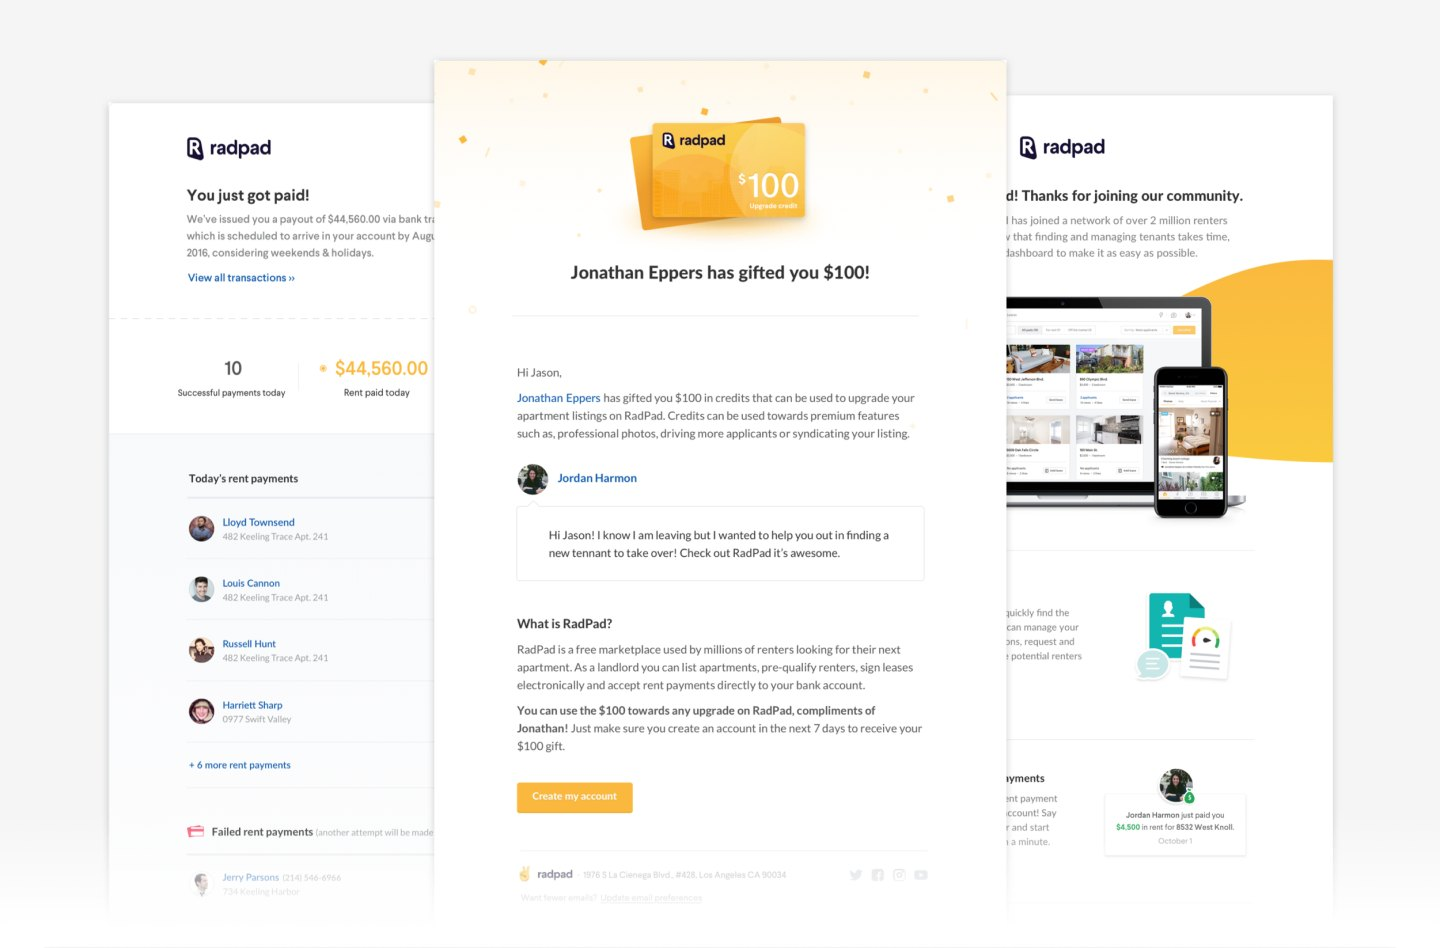
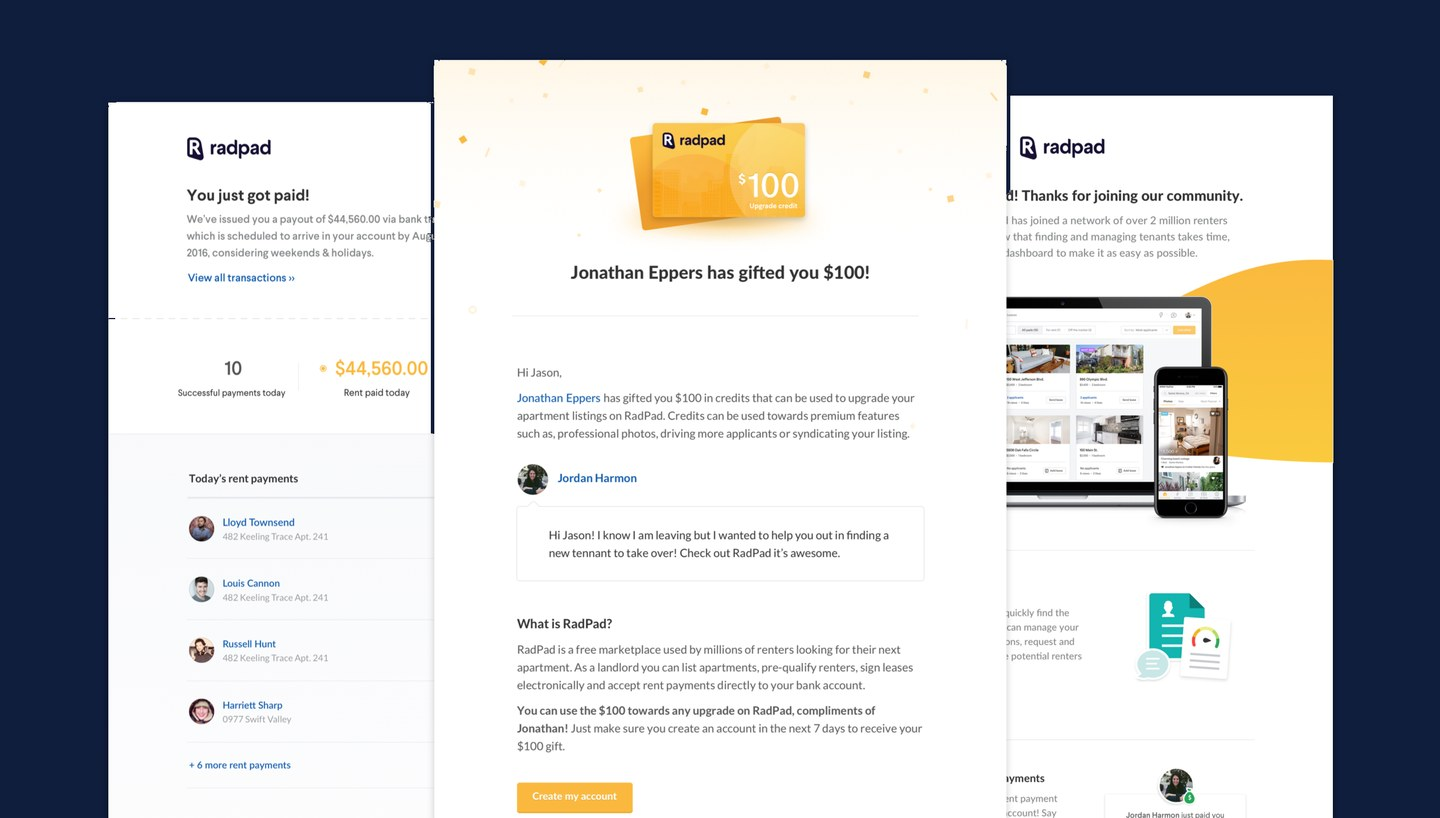
More work polish: navy RadPad and corona backgrounds, Loud Mouths popup, fixes
- RadPad emails sit on dark navy (tile and popup)
- coronavirus.gov popup uses the tile's dark blue background, plus
  Made with credits
- Loud Mouths Run Club gets a popup (logo and sweatshirt)
- KDS moves above the Juzzy's phone
- No white edges on the scrolling corona and Boombox pages

Claude-Session: https://claude.ai/code/session_01DoMJVhPM61S6qeyrrrouu3

diff --git a/src/content/more-work.ts b/src/content/more-work.ts
@@ -59,7 +59,7 @@ export const moreWork: MoreWorkItem[][] = [
           page: "page-boombox.jpg",
           window: { x: 16, y: 16, w: 253.33, h: 179.8, radius: 6 },
           pageHeight: 767.92,
-          keys: [[1.5, 0], [38.5, -588.12], [41, -588.12], [45, 0]],
+          keys: [[1.5, 0], [38.5, -586.5], [41, -586.5], [45, 0]],
           loop: 46.5,
         },
       },
@@ -80,7 +80,7 @@ export const moreWork: MoreWorkItem[][] = [
               page: "page-boombox.jpg",
               window: { x: 0, y: 0, w: 720, h: 511 },
               pageHeight: 2182.5,
-              keys: [[1.5, 0], [31.5, -1671.5], [33.5, -1671.5], [35.5, 0]],
+              keys: [[1.5, 0], [31.5, -1669.5], [33.5, -1669.5], [35.5, 0]],
               loop: 37,
             },
           },
@@ -174,9 +174,9 @@ export const moreWork: MoreWorkItem[][] = [
         scroll: {
           base: "base-corona-tile.jpg",
           page: "page-corona.jpg",
-          window: { x: 25.4, y: 41.42, w: 234.53, h: 296.58 },
+          window: { x: 24.6, y: 41.42, w: 236.13, h: 296.58 },
           pageHeight: 699.67,
-          keys: [[1.5, 0], [25.5, -403.09], [27.5, -403.09], [29.5, 0]],
+          keys: [[1.5, 0], [25.5, -401.5], [27.5, -401.5], [29.5, 0]],
           loop: 31,
         },
       },
@@ -185,6 +185,7 @@ export const moreWork: MoreWorkItem[][] = [
         title: "National COVID portal",
         description:
           "Rethinking the national COVID portal with the White House. We simplified the structure so people could quickly find testing, vaccines, treatment and financial help in one place.",
+        credits: "Made with: Matthew Miller, Tyler Galpin and Shaun Modi.",
         slides: [
           {
             kind: "scroll",
@@ -193,9 +194,9 @@ export const moreWork: MoreWorkItem[][] = [
             scroll: {
               base: "base-corona-slide.jpg",
               page: "page-corona.jpg",
-              window: { x: 50, y: 68, w: 620, h: 416 },
+              window: { x: 49, y: 68, w: 622, h: 416 },
               pageHeight: 1849.61,
-              keys: [[1.5, 0], [25.5, -1433.61], [27.5, -1433.61], [29.5, 0]],
+              keys: [[1.5, 0], [25.5, -1431.6], [27.5, -1431.6], [29.5, 0]],
               loop: 31,
             },
           },
@@ -241,19 +242,6 @@ export const moreWork: MoreWorkItem[][] = [
   // Column 3
   [
     {
-      title: "Uncle Juzzy’s",
-      description: "Mobile website with ordering up front.",
-      size: [285, 338],
-      media: { kind: "video", src: "/more-work/juzzy-mobile-tile.mp4", poster: "/more-work/juzzy-mobile-tile-poster.jpg" },
-      popup: {
-        project: "Uncle Juzzy’s",
-        title: "Mobile website",
-        description:
-          "The mobile site for Uncle Juzzy’s, with ordering up front, the menu and everything you need to find the restaurant.",
-        slides: [{ kind: "image", src: "s-juzzy-mobile-1.jpg", alt: "The Uncle Juzzy’s home page in a phone" }],
-      },
-    },
-    {
       title: "Local Kitchens",
       description: "Kitchen display system for busy lines.",
       size: [285, 214],
@@ -270,10 +258,33 @@ export const moreWork: MoreWorkItem[][] = [
       },
     },
     {
+      title: "Uncle Juzzy’s",
+      description: "Mobile website with ordering up front.",
+      size: [285, 338],
+      media: { kind: "video", src: "/more-work/juzzy-mobile-tile.mp4", poster: "/more-work/juzzy-mobile-tile-poster.jpg" },
+      popup: {
+        project: "Uncle Juzzy’s",
+        title: "Mobile website",
+        description:
+          "The mobile site for Uncle Juzzy’s, with ordering up front, the menu and everything you need to find the restaurant.",
+        slides: [{ kind: "image", src: "s-juzzy-mobile-1.jpg", alt: "The Uncle Juzzy’s home page in a phone" }],
+      },
+    },
+    {
       title: "Loud Mouths Run Club",
       description: "Logo and merch for an Austin and Dallas run club.",
       size: [285, 285],
       media: { kind: "image", src: "tile-loud-mouths.jpg" },
+      popup: {
+        project: "Loud Mouths Run Club",
+        title: "Logo and merch",
+        description:
+          "A logo for Loud Mouths, a run club in Austin and Dallas. The running mouth says it all: show up, be loud and just get out there.",
+        slides: [
+          { kind: "image", src: "s-loud-mouths-1.jpg", alt: "The Loud Mouths Run Club logo: a running mouth with ATX and DTX" },
+          { kind: "image", src: "s-loud-mouths-2.jpg", alt: "The logo printed on a cream crewneck sweatshirt" },
+        ],
+      },
     },
     { title: "Coming soon", description: "", size: [285, 260], soonImage: "s-acura-3.jpg" },
     { title: "Coming soon", description: "", size: [285, 214], soonImage: "s-tee-1.jpg" },
